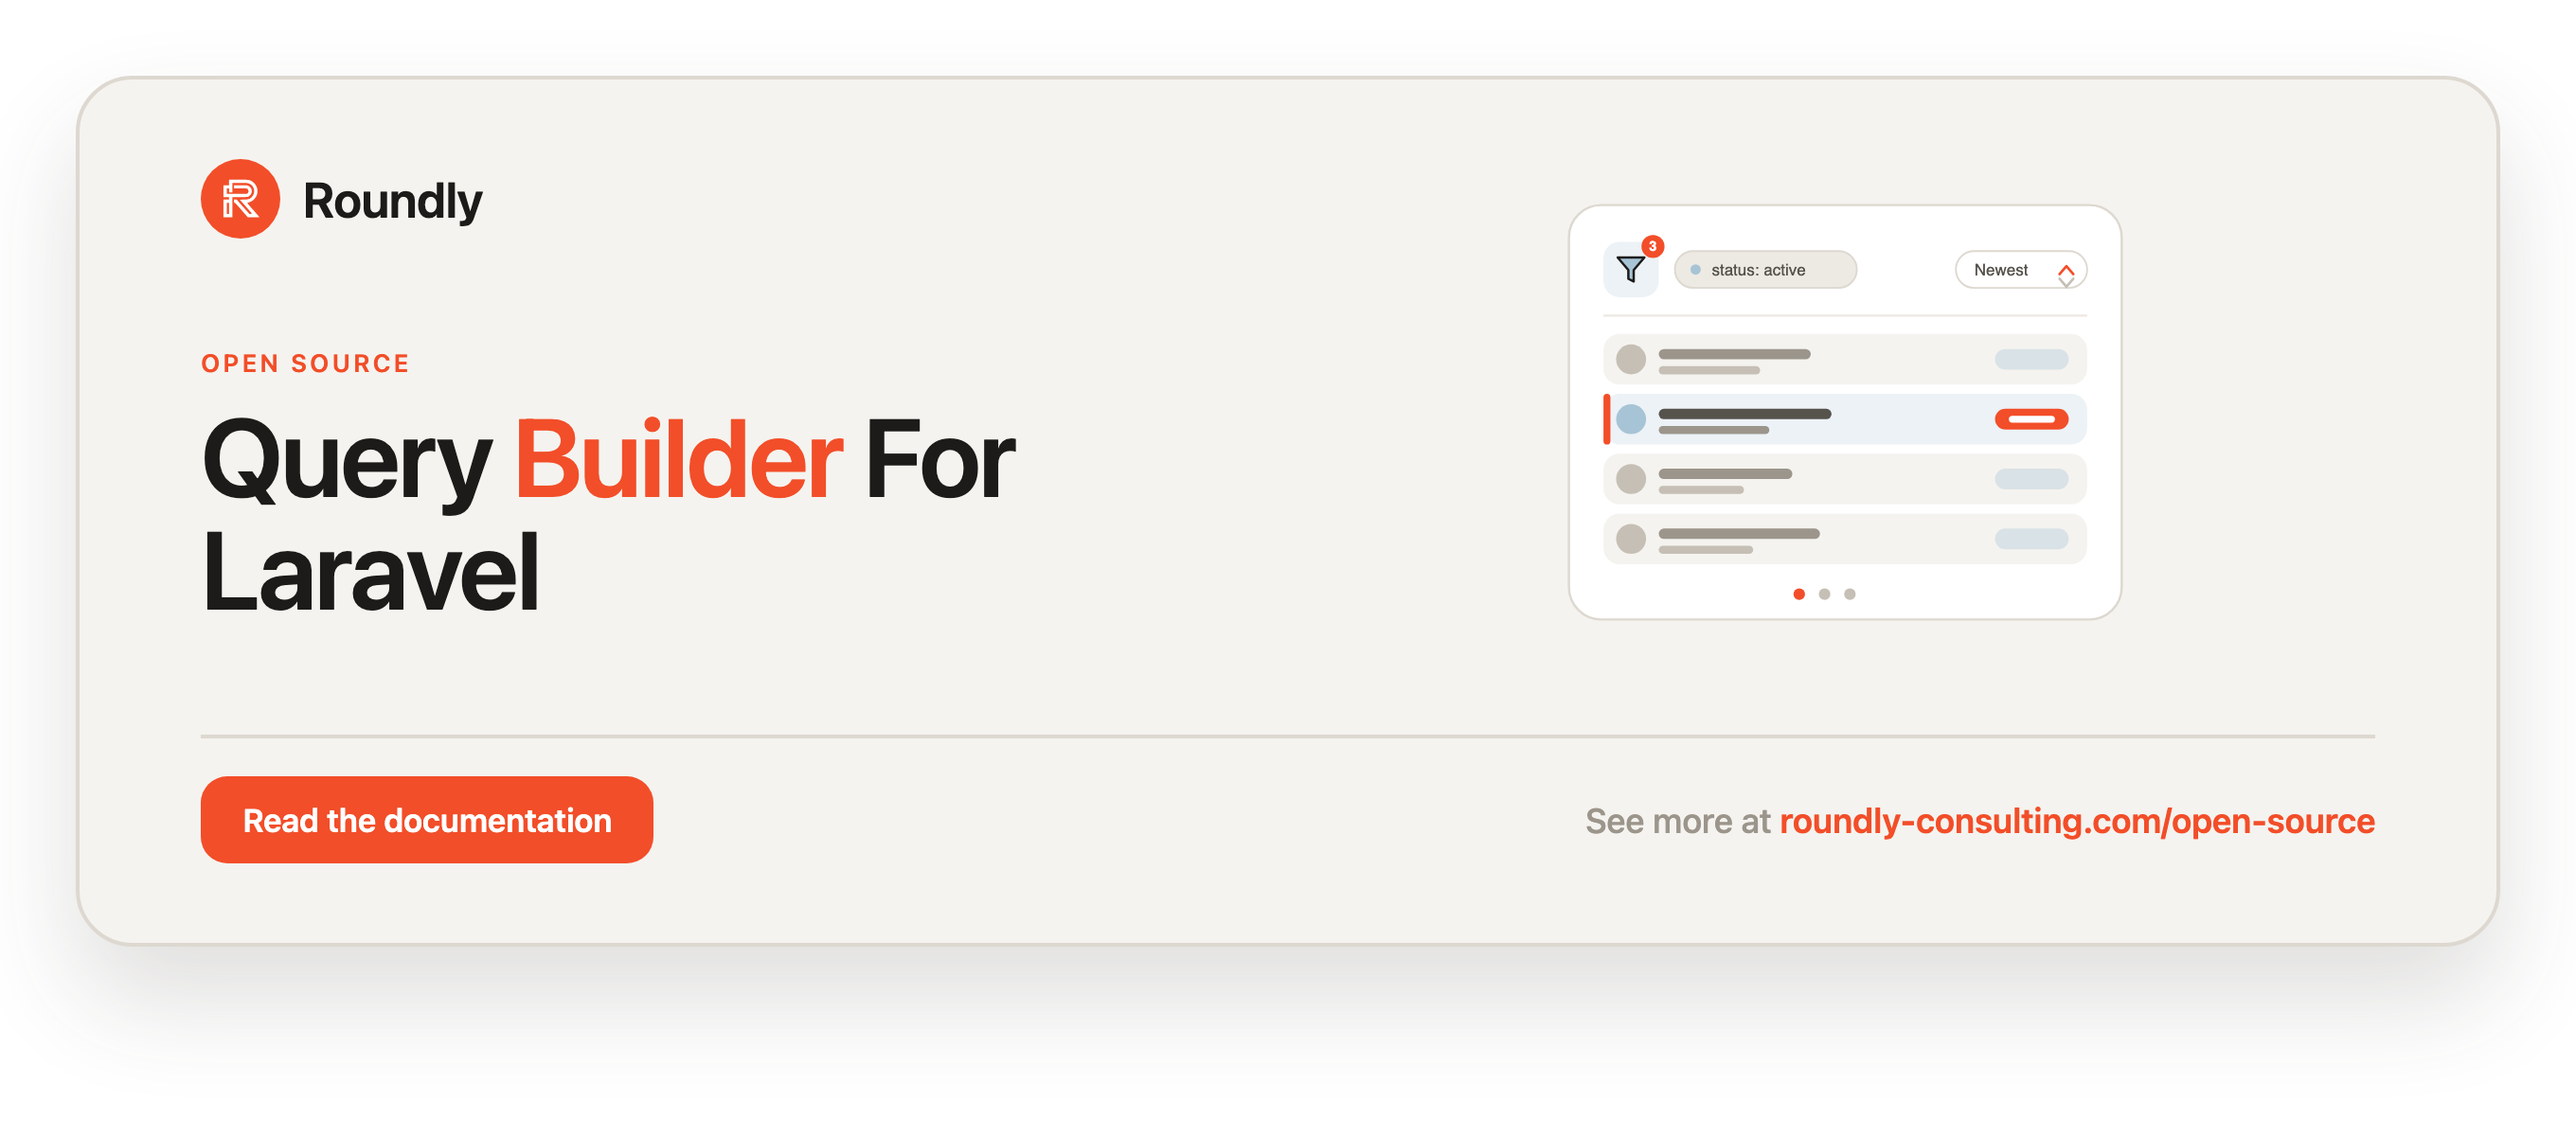
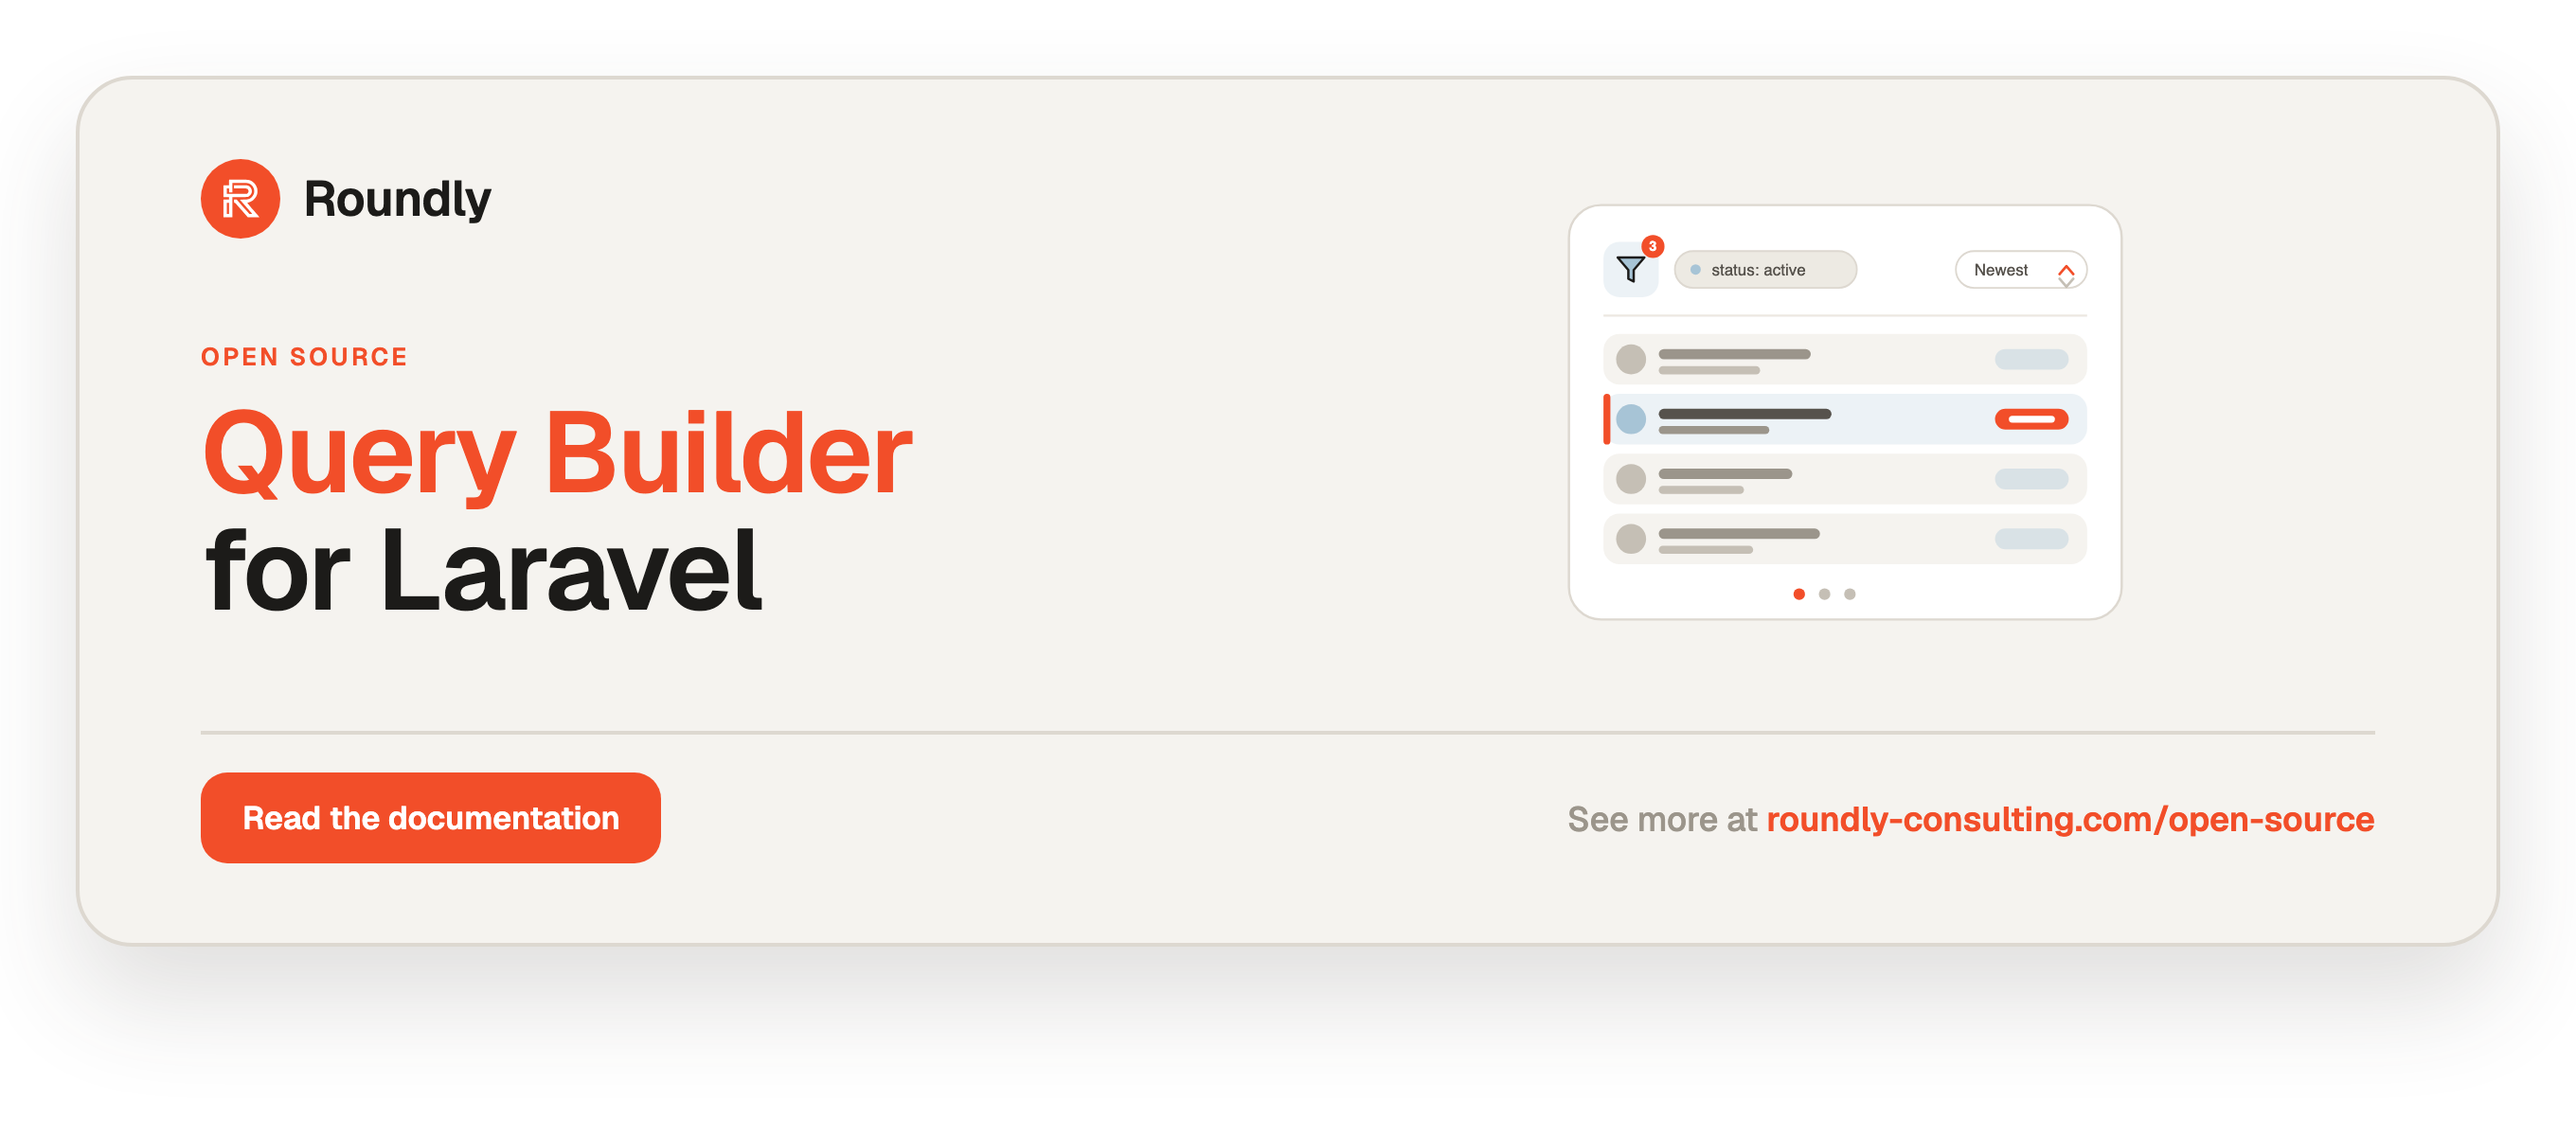
docs(art): put package name on one orange line

diff --git a/README.md b/README.md
@@ -1,8 +1,10 @@
+<!-- roundly-hero:start -->
 <p align="center">
-  <a href="https://roundly-consulting.com/open-source">
-    <img src="art/hero.png" alt="Query Builder For Laravel — Roundly open source" width="100%">
+  <a href="https://roundly-consulting.com/open-source/docs/query-builder-for-laravel?utm_source=github&utm_medium=readme&utm_campaign=open-source&utm_content=query-builder-for-laravel">
+    <img src="art/hero.png" alt="Query Builder for Laravel — Roundly open source" width="100%">
   </a>
 </p>
+<!-- roundly-hero:end -->
 
 # Query Builder for Laravel
 
